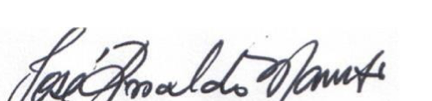
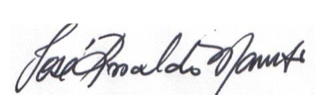
fix(certificados): assinatura do José Rinaldo (NR10) melhor recortada, sem cortar
Substitui a imagem recortada por uma versão limpa com folga (fornecida pelo Alan,
331x109) e ajusta o imgAspect para a proporção real — antes a rubrica encostava
nas bordas e parecia cortada no NR10/NR10 SEP.

Changed region(s): [[0.0, 0.2079, 0.9366, 1.0], [0.6344, 0.2673, 0.6647, 0.297]]

diff --git a/src/lib/certificados/pdf.ts b/src/lib/certificados/pdf.ts
@@ -96,7 +96,7 @@ const ASSINANTES: Record<
     linhas: ["José Rinaldo Maniezo", "CREA 1402051913"],
     imgUrl: ASSETS.assinaturaJose,
     imgFmt: "PNG",
-    imgAspect: 432 / 101,
+    imgAspect: 331 / 109,
   },
 };
 
